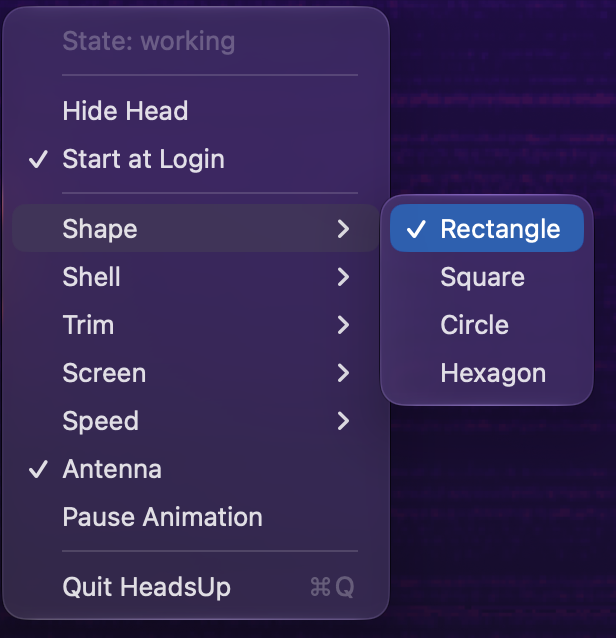
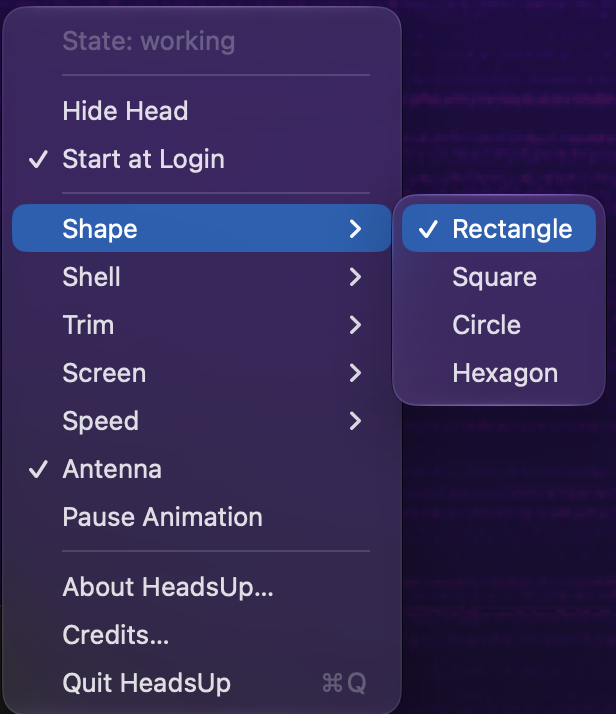
feat: About and Credits panels in the menu bar (#9)
The app said nothing about itself, and the robot-heads credit lived
only in the README, where nobody looks. Both panels follow Comet
Cursor's About: a floating panel built once and reused, an icon, centred
lines and link buttons.

About carries the version, author, company and contact. Credits is its
own item, so the attribution gets a page rather than a footnote: what
robot-heads is, whose it is, its licence, and how much of this app it
is.

The package builds a bare executable with no Info.plist, so the version
is a constant and the icon is the menu bar's own SF Symbol. Each panel
takes its height from its content, so no empty band is left under the
last line.

diff --git a/Sources/HeadsUp/AboutWindow.swift b/Sources/HeadsUp/AboutWindow.swift
@@ -1,0 +1,144 @@
+import AppKit
+
+// The About and Credits panels, built the same way as Comet Cursor's About: an
+// icon, a few centred lines and link buttons, in a floating panel made once and
+// reused.
+//
+// The package builds a bare executable with no Info.plist, so the version is a
+// constant here rather than CFBundleShortVersionString, and the icon is the
+// same SF Symbol the menu bar uses rather than the app icon.
+let headsUpVersion = "0.1.0"
+
+final class AboutWindow {
+    private var aboutPanel: NSPanel?
+    private var creditsPanel: NSPanel?
+
+    func showAbout() {
+        if aboutPanel == nil { aboutPanel = buildAbout() }
+        present(aboutPanel)
+    }
+
+    func showCredits() {
+        if creditsPanel == nil { creditsPanel = buildCredits() }
+        present(creditsPanel)
+    }
+
+    private func present(_ panel: NSPanel?) {
+        guard let panel else { return }
+        NSApp.activate(ignoringOtherApps: true)
+        if panel.frame.origin == .zero { panel.center() }
+        panel.makeKeyAndOrderFront(nil)
+    }
+
+    private func buildAbout() -> NSPanel {
+        let name = NSTextField(labelWithString: "HeadsUp")
+        name.font = .systemFont(ofSize: 20, weight: .semibold)
+
+        let email = linkButton("sunny.sudarshan@gmail.com", action: #selector(emailTapped))
+        email.setAccessibilityLabel("Email Sudarshan Chaudhari")
+
+        return panel(title: "About HeadsUp", width: 380, views: [icon(), name]
+            + [
+                label("Version: \(headsUpVersion)"),
+                label("Author: Sudarshan Chaudhari"),
+                label("Company: SudarshanTechLabs"),
+                label("© 2026 SudarshanTechLabs."),
+                label("All rights reserved."),
+            ]
+            + [email])
+    }
+
+    // The robot is not mine, and neither is most of the code that draws it, so
+    // the credit belongs in the app and not only in the README.
+    private func buildCredits() -> NSPanel {
+        let title = NSTextField(labelWithString: "Credits")
+        title.font = .systemFont(ofSize: 20, weight: .semibold)
+
+        let robotHeads = linkButton("github.com/fayazara/robot-heads", action: #selector(robotHeadsTapped))
+        robotHeads.setAccessibilityLabel("Open the robot-heads repository")
+
+        let heading = NSTextField(labelWithString: "The robot")
+        heading.font = .systemFont(ofSize: 13, weight: .semibold)
+        heading.alignment = .center
+
+        return panel(title: "Credits", width: 420, views: [
+            icon(), title,
+            heading,
+            label("robot-heads 0.3.0 by Fayaz Ahmed"),
+            robotHeads,
+            label("Used under the MIT licence, without React."),
+            label("Its renderer is the larger part of this app:"),
+            label("1,946 of 2,129 source lines."),
+            label("HeadsUp adds the macOS window,"),
+            label("the state file and the Claude Code hook."),
+        ])
+    }
+
+    private func panel(title: String, width: CGFloat, views: [NSView]) -> NSPanel {
+        let stack = NSStackView(views: views)
+        stack.orientation = .vertical
+        stack.alignment = .centerX
+        stack.spacing = 8
+        stack.edgeInsets = NSEdgeInsets(top: 24, left: 28, bottom: 24, right: 28)
+
+        // A fixed width keeps the lines off the edges; the height is whatever the
+        // content needs, so no empty band is left under the last line.
+        let size = NSSize(width: width, height: stack.fittingSize.height)
+        let panel = NSPanel(contentRect: NSRect(origin: .zero, size: size),
+                            styleMask: [.titled, .closable, .nonactivatingPanel],
+                            backing: .buffered, defer: false)
+        panel.title = title
+        panel.isFloatingPanel = true
+        panel.isReleasedWhenClosed = false
+        panel.contentView = stack
+        panel.setContentSize(size)
+        return panel
+    }
+
+    private func icon() -> NSImageView {
+        let view = NSImageView()
+        if let symbol = NSImage(systemSymbolName: "face.smiling", accessibilityDescription: "HeadsUp") {
+            view.image = symbol.withSymbolConfiguration(.init(pointSize: 64, weight: .regular))
+        } else {
+            view.image = NSApp.applicationIconImage
+        }
+        view.contentTintColor = .controlAccentColor
+        view.imageScaling = .scaleProportionallyUpOrDown
+        view.widthAnchor.constraint(equalToConstant: 72).isActive = true
+        view.heightAnchor.constraint(equalToConstant: 72).isActive = true
+        view.setAccessibilityLabel("HeadsUp icon")
+        return view
+    }
+
+    private func label(_ text: String) -> NSTextField {
+        let label = NSTextField(labelWithString: text)
+        label.textColor = .secondaryLabelColor
+        label.alignment = .center
+        return label
+    }
+
+    private func linkButton(_ title: String, action: Selector) -> NSButton {
+        let button = NSButton(title: title, target: self, action: action)
+        button.isBordered = false
+        button.contentTintColor = .linkColor
+        // Without this the first link draws a focus ring the moment the panel opens.
+        button.refusesFirstResponder = true
+        return button
+    }
+
+    @objc private func emailTapped() {
+        open("mailto:sunny.sudarshan@gmail.com")
+    }
+
+    @objc private func robotHeadsTapped() {
+        open("https://github.com/fayazara/robot-heads")
+    }
+
+    private func open(_ string: String) {
+        guard let url = URL(string: string) else {
+            NSLog("HeadsUp: bad link: \(string)")
+            return
+        }
+        NSWorkspace.shared.open(url)
+    }
+}

diff --git a/Sources/HeadsUp/main.swift b/Sources/HeadsUp/main.swift
@@ -42,6 +42,7 @@ final class AppDelegate: NSObject, NSApplicationDelegate, WKNavigationDelegate, 
     let antennaItem = NSMenuItem(title: "Antenna", action: #selector(toggleAntenna), keyEquivalent: "")
     var look = Look.load()
     var lookMenus: [LookField: NSMenu] = [:]
+    let about = AboutWindow()
 
     func applicationDidFinishLaunching(_ note: Notification) {
         panel = NSPanel(contentRect: NSRect(origin: .zero, size: headSize),
@@ -103,6 +104,12 @@ final class AppDelegate: NSObject, NSApplicationDelegate, WKNavigationDelegate, 
         pauseItem.target = self
         menu.addItem(pauseItem)
         menu.addItem(.separator())
+        let aboutItem = NSMenuItem(title: "About HeadsUp…", action: #selector(showAbout), keyEquivalent: "")
+        aboutItem.target = self
+        menu.addItem(aboutItem)
+        let creditsItem = NSMenuItem(title: "Credits…", action: #selector(showCredits), keyEquivalent: "")
+        creditsItem.target = self
+        menu.addItem(creditsItem)
         let quit = NSMenuItem(title: "Quit HeadsUp", action: #selector(NSApplication.terminate(_:)), keyEquivalent: "q")
         quit.target = NSApp
         menu.addItem(quit)
@@ -171,6 +178,14 @@ final class AppDelegate: NSObject, NSApplicationDelegate, WKNavigationDelegate, 
         look.paused.toggle()
         look.save()
         pushLook()
+    }
+
+    @objc func showAbout() {
+        about.showAbout()
+    }
+
+    @objc func showCredits() {
+        about.showCredits()
     }
 
     @objc func toggleAntenna() {

diff --git a/README.md b/README.md
@@ -17,7 +17,7 @@ The robot is the drawing engine from [robot-heads](https://github.com/fayazara/r
 - Nine robot states, each with its own LED face, motion and antenna light
 - Transparent, borderless window that floats above all apps and appears on every desktop space
 - Drag the head anywhere; the position is remembered between launches
-- Menu-bar icon showing the current state, with Hide Head, Start at Login and Quit
+- Menu-bar icon showing the current state, with Hide Head, Start at Login, About, Credits and Quit
 - Pick the head's shape, shell, trim, screen colour and animation speed from the menu bar; the choice is remembered
 - Right-click the head to quit; no Dock icon
 - One hook script maps Claude Code events to states, always exits 0 and never blocks Claude
@@ -122,6 +122,18 @@ The swatches are robot-heads' own, so a preset here matches the same preset in
 change moves the head's bounds, and the window follows, keeping its top-left
 corner where it was.
 
+### About and Credits
+
+<div align="center">
+
+<img src="docs/about.png" alt="The About HeadsUp panel" width="320">
+&nbsp;&nbsp;
+<img src="docs/credits.png" alt="The Credits panel, crediting robot-heads" width="354">
+
+<em>Left: version, author and contact. Right: what the robot is and whose it is.</em>
+
+</div>
+
 ### Start at login
 
 ```bash
@@ -182,6 +194,7 @@ HeadsUp/
 ├── Sources/HeadsUp/
 │   ├── main.swift                # window, web view, state polling, drag, menu bar
 │   ├── Look.swift                # the saved appearance, and the JSON the page gets
+│   ├── AboutWindow.swift         # the About and Credits panels
 │   └── LoginItem.swift           # the LaunchAgent, shared by the CLI and the menu
 ├── web/
 │   ├── index.html                # transparent page with one <canvas>
